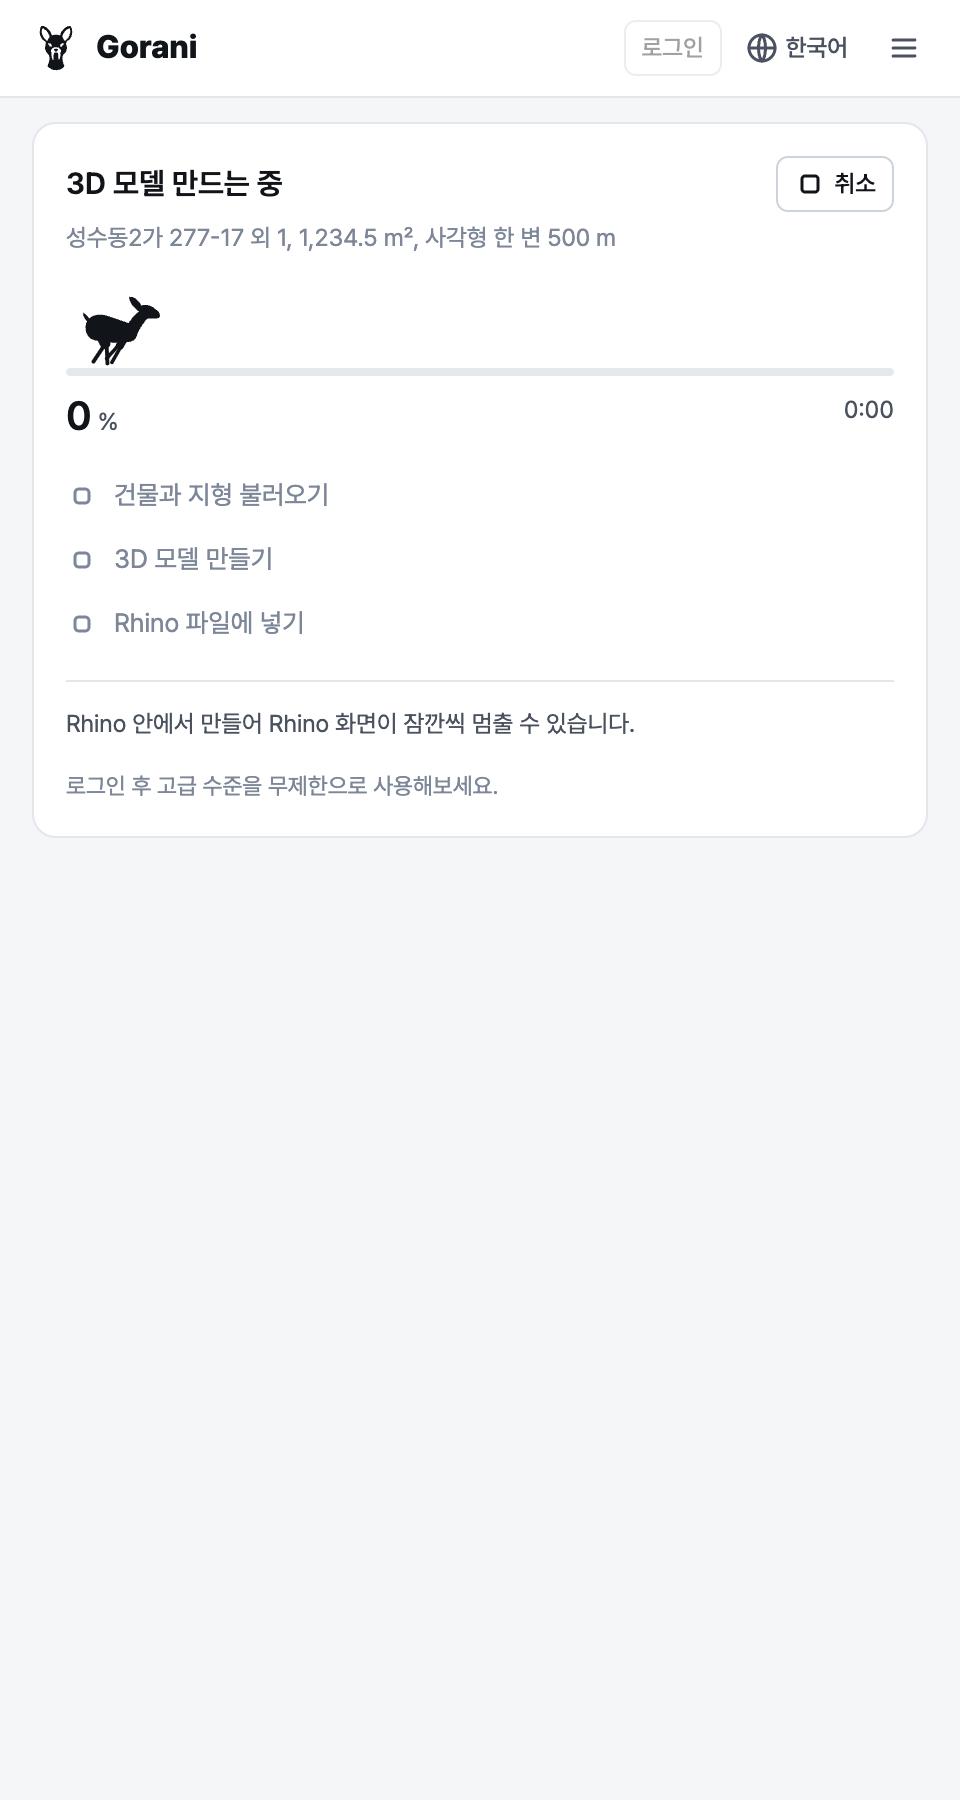
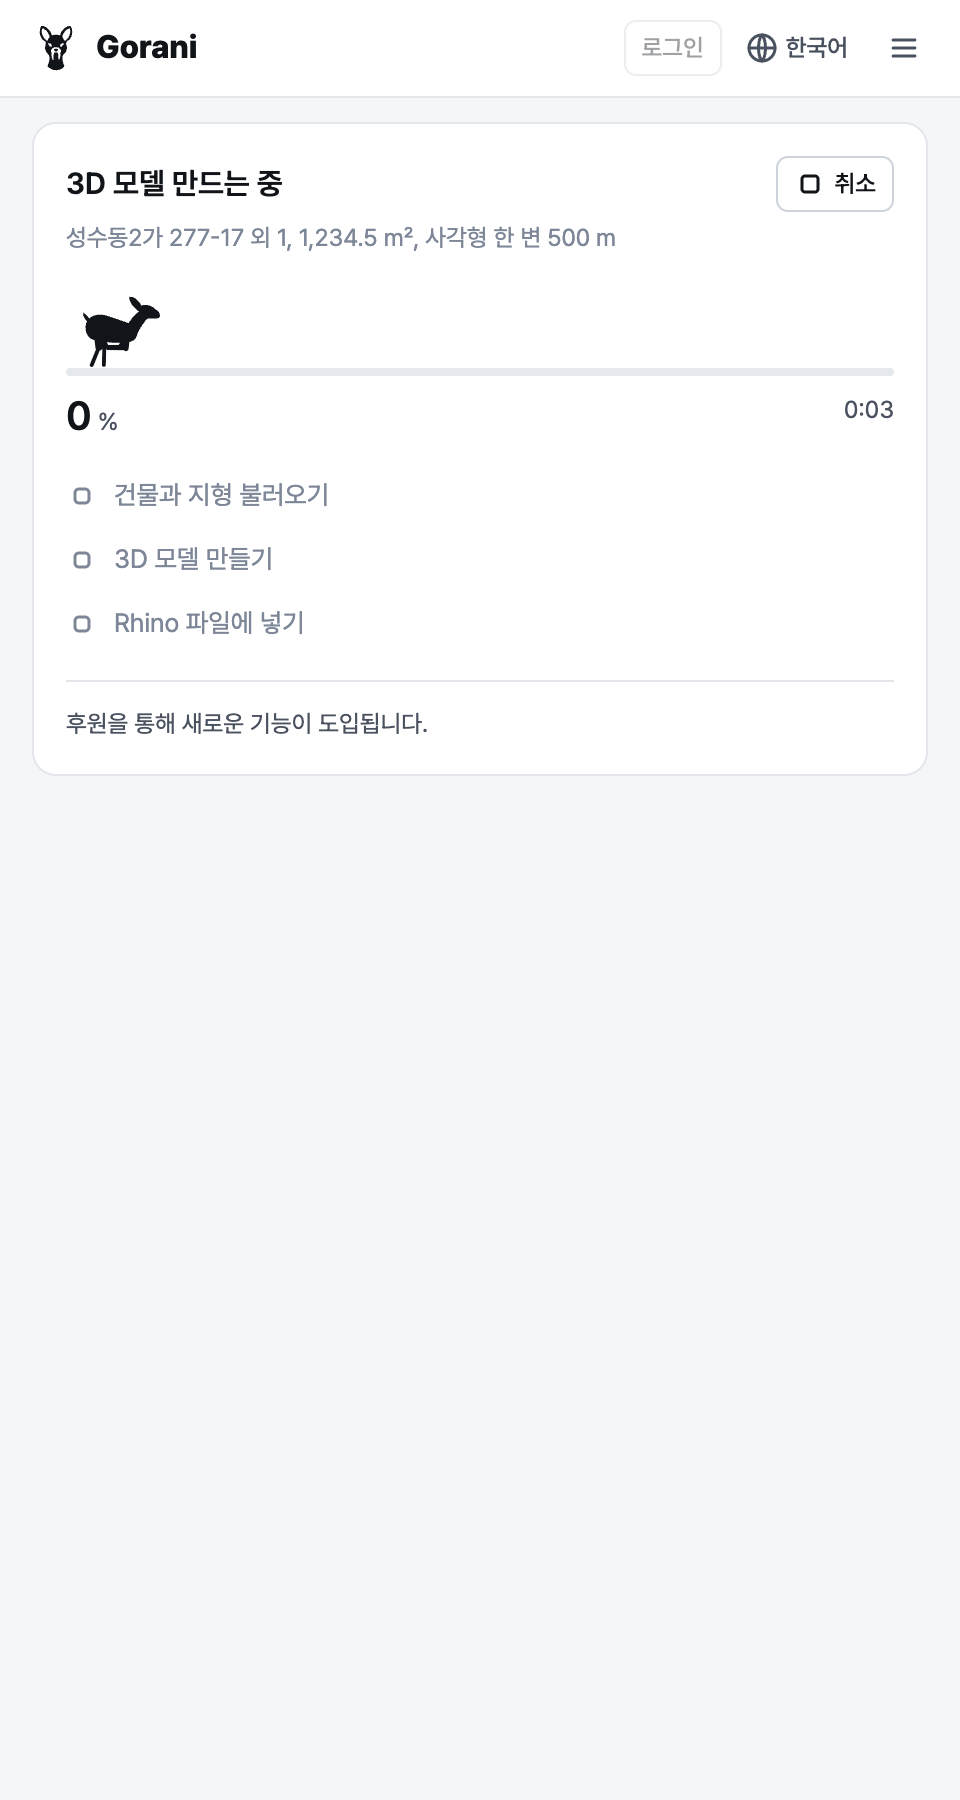
로딩 안내는 한 줄: '화면이 멈출 수 있습니다'로 시작해 8초마다 무작위(팁 5·로그인 1·후원 3·문의 1), 글자 위계는 기존 안내 줄과 같게. 플랜 창을 봤으면 처음 만들 때 창은 건너뜀(X 뒤 연달아 뜨던 것)

Changed region(s): [[0.0625, 0.3733, 0.5312, 0.4667], [0.5938, 0.3733, 0.6562, 0.4044], [0.0938, 0.1867, 0.125, 0.2178]]

diff --git a/scripts/constants.py b/scripts/constants.py
@@ -181,8 +181,13 @@ PANEL_LINKS = {
     "sponsor": "https://github.com/sponsors/969flash",   # 후원 — 더보기 메뉴 '도움' 문의 아래(2026-11-18 사용자, 웹사이트 꼬리말과 같은 곳). Blender판에는 줄이 없다
 }
 # 3D 만드는 동안 진행 카드 아래에 도는 한 줄(2026-11-18 사용자) — 원격 설정. 글은 i18n.json 원문(새 줄을 더하면 번역도 같이 올린다)
-# kind: login = 회원 기능이 켜진 손님에게만, sponsor = 후원 링크가 있을 때(Blender판은 없음), contact = 누구나
+# kind: tip·contact = 누구나, login = 회원 기능이 켜진 손님에게만, sponsor = 후원 링크가 있을 때(Blender판은 없음). 첫 줄은 늘 '화면이 멈출 수 있습니다'(패널 jobLines)
 LOADING_TIPS = [
+    {"text": "범위가 1 km를 넘으면 만드는 데 1분 넘게 걸릴 수 있습니다.", "kind": "tip"},
+    {"text": "3D가 끝나면 베이스맵(.ai)·다이어그램·조서도 이어서 만들 수 있습니다.", "kind": "tip"},
+    {"text": "도면 색과 글꼴을 바꿔 '내 스타일'로 저장해 두면 다음 대상지에도 쓸 수 있습니다.", "kind": "tip"},
+    {"text": "최근 결과를 누르면 지난 대상지와 설정을 다시 열 수 있습니다.", "kind": "tip"},
+    {"text": "도면마다 데이터 출처와 기준일이 적혀 있습니다.", "kind": "tip"},
     {"text": "로그인 후 고급 수준을 무제한으로 사용해보세요.", "kind": "login"},
     {"text": "Gorani는 후원으로 운영합니다.", "kind": "sponsor"},
     {"text": "후원을 통해 새로운 기능이 도입됩니다.", "kind": "sponsor"},
